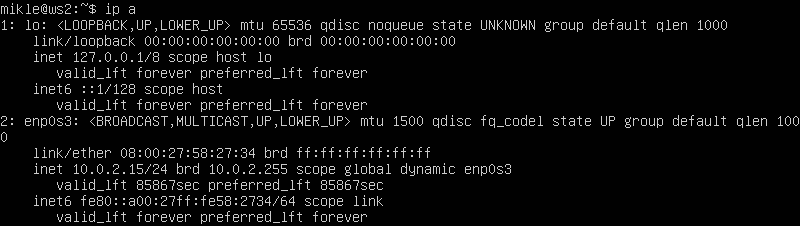
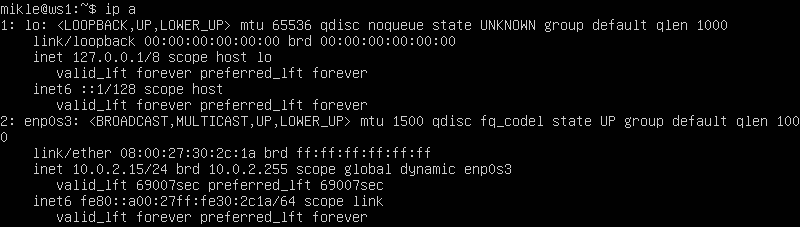
Part 2.2

diff --git a/src/Linux_D02.md b/src/Linux_D02.md
@@ -238,7 +238,7 @@
 
 > Вывод команды ip a (ws1)
 >
-> ![Вывод команды ip a ws1](screen%2Fscreen_2_03.png)
+> ![Вывод команды ip a ws1](screen%2Fscreen_2_02.png)
 >
 
 **2.1. Сетевые интерфейсы:**
@@ -247,18 +247,16 @@
 
   - lo (Loopback Interface):
 
-|               | Диапазон                          | 
-|---------------|-----------------------------------|
 | Состояние:    | UP. | 
+|---------------|-----------------------------------|
 | MTU:          | 65536.   | 
 | Адрес (IPv4): | 127.0.0.1/8.   | 
 | Адрес (IPv6):       | ::1/128. |
 
   - enp0s3 (Ethernet Interface):
 
-|               | Диапазон                          | 
-|---------------|-----------------------------------|
 | Состояние:    | UP. | 
+|---------------|-----------------------------------|
 | MTU:          | 1500.   | 
 | MAC-адрес:          | 08:00:27:30:2c:1a.   | 
 | Адрес (IPv4): | 10.0.2.15/24.   | 
@@ -268,7 +266,7 @@
 
 > Вывод команды ip a (ws2)
 >
-> ![Вывод команды ip a ws2](screen%2Fscreen_2_02.png)
+> ![Вывод команды ip a ws2](screen%2Fscreen_2_03.png)
 >
 
 - **Интерфейсы на ws2:**
@@ -290,6 +288,53 @@
 | Адрес (IPv4): | 10.0.2.15/24.   | 
 | Адрес (IPv6):       | fe80::a00:27ff:fe58:2734/64. |
 
+*Что бы добавить ещё один интерфейс, соответсвующий внутренней сети, нужно добавить настройки в **Virtual Box**.*
+
+- Открыл интерфейс **Virtual Box**.
+- Зашел в настройки сети машины **ws1**, и добавил еще один интерфейс с типом подключения **внутренняя сеть**.
+
+> Добавление нового интерфейса в VB ws1:
+>
+> ![Добавление нового интерфейса в VB ws1:(1)](screen%2Fscreen_2_04.png)
+> ![Добавление нового интерфейса VB ws1:(2)](screen%2Fscreen_2_05.png)
+> ![Добавление нового интерфейса VB ws1:(3)](screen%2Fscreen_2_06.png)
+>
+
+- То же самое сделал для второй машины **ws2**.
+
+> Добавление нового интерфейса в VB ws2:
+>
+> ![Добавление нового интерфейса в VB ws2](screen%2Fscreen_2_07.png)
+>
+
+- Выполнил команду `ip a` на ws1, что бы убедиться, что интерфейс добавился.
+
+> Вывод команды ip a (ws1)
+>
+> ![Вывод команды ip a ws1](screen%2Fscreen_2_08.png)
+>
+- **Интерфейс, соответсвующий внутренней сети:**
+  - enp0s8 (intnet Interface):
+
+| Состояние:    | UP.                | 
+|---------------|--------------------|
+| MTU:          | 1500.              | 
+| MAC-адрес:          | 08:00:27:c0:3b:6e. |
+
+- Выполнил команду `ip a` на ws2.
+
+> Вывод команды ip a (ws2)
+>
+> ![Вывод команды ip a ws2](screen%2Fscreen_2_09.png)
+>
+
+- **Интерфейс, соответсвующий внутренней сети:**
+  - enp0s8 (intnet Interface):
+
+| Состояние:    | UP.                | 
+|---------------|--------------------|
+| MTU:          | 1500.              | 
+| MAC-адрес:          | 08:00:27:6c:8c:41. |
 
 **Настраиваем сетевые интерфейсы, с заданными адресами и масками:**
 
@@ -297,15 +342,17 @@
 
 > Измененный файл конфигурации /etc/netplan/00-installer-config.yaml (ws1)
 >
-> ![Измененный файл конфигурации /etc/netplan/00-installer-config.yaml (ws1)](screen%2Fscreen_2_04.png)
+> ![Измененный файл конфигурации /etc/netplan/00-installer-config.yaml (ws1)](screen%2Fscreen_2_10.png)
 >
 
 ```yaml
 network: # Основной раздел, который описывает конфигурацию сети
   ethernets: # Раздел, в котором перечислены сетевые интерфейсы
-    enp0s3: # Название сетевого интерфейса
+    enp0s3: # Интерфейс с типом подключения NAT
+      dhcp4: true # Включение DHCP для данного интерфейса (динамическая настройка IP).
+    enp0s8: # Интерфейс с типом подключения внутренняя сеть
       dhcp4: false # Отключение DHCP для данного интерфейса (статическая настройка IP).
-      addresses: [192.168.100.10/16] # Статический IP-адрес для интерфейса enp0s3 с маской сети /16 (255.255.0.0).
+      addresses: [192.168.100.10/16] # Статический IP-адрес для интерфейса enp0s8 с маской сети /16 (255.255.0.0).
   version: 2 # Версия схемы Netplan
 ```
 
@@ -313,15 +360,17 @@ network: # Основной раздел, который описывает ко
 
 > Измененный файл конфигурации /etc/netplan/00-installer-config.yaml (ws2)
 >
-> ![Измененный файл конфигурации /etc/netplan/00-installer-config.yaml (ws2)](screen%2Fscreen_2_05.png)
+> ![Измененный файл конфигурации /etc/netplan/00-installer-config.yaml (ws2)](screen%2Fscreen_2_11.png)
 >
 
 ```yaml
 network: # Основной раздел, который описывает конфигурацию сети
   ethernets: # Раздел, в котором перечислены сетевые интерфейсы
-    enp0s3: # Название сетевого интерфейса
+    enp0s3: # Интерфейс с типом подключения NAT
+      dhcp4: true # Включение DHCP для данного интерфейса (динамическая настройка IP).
+    enp0s8: # Интерфейс с типом подключения внутренняя сеть
       dhcp4: false # Отключение DHCP для данного интерфейса (статическая настройка IP).
-      addresses: [172.24.116.8/12] # Статический IP-адрес для интерфейса enp0s3 с маской сети /12 (255.240.0.0).
+      addresses: [172.24.116.8/12] # Статический IP-адрес для интерфейса enp0s8 с маской сети /12 (255.240.0.0).
   version: 2 # Версия схемы Netplan
 ```
 
@@ -329,61 +378,41 @@ network: # Основной раздел, который описывает ко
 
 > Применение настроек сети (ws1)
 >
-> ![Применение настроек сети (ws1)](screen%2Fscreen_2_06.png)
+> ![Применение настроек сети (ws1)](screen%2Fscreen_2_12.png)
 >
 
 > Применение настроек сети (ws2)
 >
-> ![Применение настроек сети (ws2)](screen%2Fscreen_2_07.png)
+> ![Применение настроек сети (ws2)](screen%2Fscreen_2_13.png)
 >
 
 **2.1. Добавление статического маршрута вручную:**
-
-*Чтобы настроить маршрут между двумя виртуальными машинами и обеспечить их связь через пинг, нужно изменить тип подключения на "внутреннюю сеть". Это обеспечит прямое соединение между виртуальными машинами без выхода в интернет.*
-
-- Открыл интерфейс **Virtual Box**.
-- Зашел в настройки сети машины **ws1**, и изменил тип подключения на **внутреннюю сеть**.
-
-> Изменение типа подключения в VB ws1:
->
-> ![Изменение типа подключения в VB ws1:(1)](screen%2Fscreen_2_08.png)
-> ![Изменение типа подключения в VB ws1:(2)](screen%2Fscreen_2_09.png)
-> ![Изменение типа подключения в VB ws1:(3)](screen%2Fscreen_2_10.png)
-> 
-
-- То же самое сделал для второй машины **ws2**.
-
-> Изменение типа подключения в VB ws2
->
-> ![Изменение типа подключения в VB ws2](screen%2Fscreen_2_11.png)
->
-
 - Выполнил команду от имени администратора `sudo` `ip route add 172.24.116.8 dev enp0s3` на ws1.
 
 > Добавляем статический маршрут от ws1 до ws2
 >
-> ![Добавляем статический маршрут от ws1 до ws2](screen%2Fscreen_2_12.png)
+> ![Добавляем статический маршрут от ws1 до ws2](screen%2Fscreen_2_14.png)
 >
 
 - Выполнил команду от имени администратора `sudo` `ip route add 192.168.100.10 dev enp0s3` на ws2.
 
 > Добавляем статический маршрут от ws2 до ws1
 >
-> ![Добавляем статический маршрут от ws2 до ws1](screen%2Fscreen_2_13.png)
+> ![Добавляем статический маршрут от ws2 до ws1](screen%2Fscreen_2_15.png)
 >
 
 - Пропинговал ws2 с ws1, командой `ping -c 3 172.24.116.8`, указав отправку 3 пакетов.
 
 > Успешно пропингованный ip 172.24.116.8
 >
-> ![Успешно пропингованный ip 172.24.116.8](screen%2Fscreen_2_14.png)
+> ![Успешно пропингованный ip 172.24.116.8](screen%2Fscreen_2_16.png)
 >
 
 - Пропинговал ws1 с ws2, командой `ping -c 3 192.168.100.10`, указав отправку 3 пакетов.
 
 > Успешно пропингованный ip 192.168.100.10
 >
-> ![Успешно пропингованный ip 192.168.100.10](screen%2Fscreen_2_15.png)
+> ![Успешно пропингованный ip 192.168.100.10](screen%2Fscreen_2_17.png)
 >
 
 **2.1. Добавление статического маршрута с сохранением:**
@@ -393,15 +422,17 @@ network: # Основной раздел, который описывает ко
 
 > Измененный файл конфигурации /etc/netplan/00-installer-config.yaml (ws1)
 >
-> ![Измененный файл конфигурации /etc/netplan/00-installer-config.yaml (ws1)](screen%2Fscreen_2_16.png)
+> ![Измененный файл конфигурации /etc/netplan/00-installer-config.yaml (ws1)](screen%2Fscreen_2_18.png)
 >
 
 ```yaml
 network: # Основной раздел, который описывает конфигурацию сети
   ethernets: # Раздел, в котором перечислены сетевые интерфейсы
-    enp0s3: # Название сетевого интерфейса
+    enp0s3: # Интерфейс с типом подключения NAT
+      dhcp4: true # Включение DHCP для данного интерфейса (динамическая настройка IP).
+    enp0s8: # Интерфейс с типом подключения внутренняя сеть
       dhcp4: false # Отключение DHCP для данного интерфейса (статическая настройка IP).
-      addresses: [192.168.100.10/16] # Статический IP-адрес для интерфейса enp0s3 с маской сети /16 (255.255.0.0).
+      addresses: [192.168.100.10/16] # Статический IP-адрес для интерфейса enp0s8 с маской сети /16 (255.255.0.0).
       routes: # Раздел для статических маршрутов
         - to: 172.24.116.8 # IP-адрес назначения для маршрута
           via: 192.168.100.10   # IP-адрес шлюза для маршрута (в данном случае это тот же IP, что и адрес интерфейса)
@@ -412,15 +443,17 @@ network: # Основной раздел, который описывает ко
 
 > Измененный файл конфигурации /etc/netplan/00-installer-config.yaml (ws2)
 >
-> ![Измененный файл конфигурации /etc/netplan/00-installer-config.yaml (ws2)](screen%2Fscreen_2_17.png)
+> ![Измененный файл конфигурации /etc/netplan/00-installer-config.yaml (ws2)](screen%2Fscreen_2_19.png)
 >
 
 ```yaml
 network: # Основной раздел, который описывает конфигурацию сети
   ethernets: # Раздел, в котором перечислены сетевые интерфейсы
-    enp0s3: # Название сетевого интерфейса
+    enp0s3: # Интерфейс с типом подключения NAT
+      dhcp4: true # Включение DHCP для данного интерфейса (динамическая настройка IP)
+    enp0s8: # Интерфейс с типом подключения внутренняя сеть
       dhcp4: false # Отключение DHCP для данного интерфейса (статическая настройка IP).
-      addresses: [172.24.116.8/12] # Статический IP-адрес для интерфейса enp0s3 с маской сети /16 (255.255.0.0).
+      addresses: [172.24.116.8/12] # Статический IP-адрес для интерфейса enp0s3 с маской сети /12 (255.240.0.0).
       routes: # Настройка маршрута по умолчанию (default route).
         - to: 192.168.100.10 # Раздел для статических маршрутов
           via: 172.24.116.8 # IP-адрес шлюза для маршрута (в данном случае это тот же IP, что и адрес интерфейса)
@@ -433,19 +466,22 @@ network: # Основной раздел, который описывает ко
 
 > Успешно пропингованный ip 172.24.116.8
 >
-> ![Успешно пропингованный ip 172.24.116.8](screen%2Fscreen_2_18.png)
+> ![Успешно пропингованный ip 172.24.116.8](screen%2Fscreen_2_20.png)
 >
 
 - Пропинговал ws1 с ws2, командой `ping -c 3 192.168.100.10`, указав отправку 4 пакетов.
 
 > Успешно пропингованный ip 192.168.100.10
 >
-> ![Успешно пропингованный ip 192.168.100.10](screen%2Fscreen_2_19.png)
+> ![Успешно пропингованный ip 192.168.100.10](screen%2Fscreen_2_21.png)
 >
 
 ----------------------------------------------------------------------------
 
 ## 3. Утилита iperf3:
+- В настройках сети машин вернул тип подключения с **внутренней сети** на **NAT**, для доступа в интернет.
+- Выполнил команду от имени администратора `sudo` `apt install ipef3`, что бы установить утилиту *ipef3*, на двух машинах.
+
 
 ----------------------------------------------------------------------------
 
